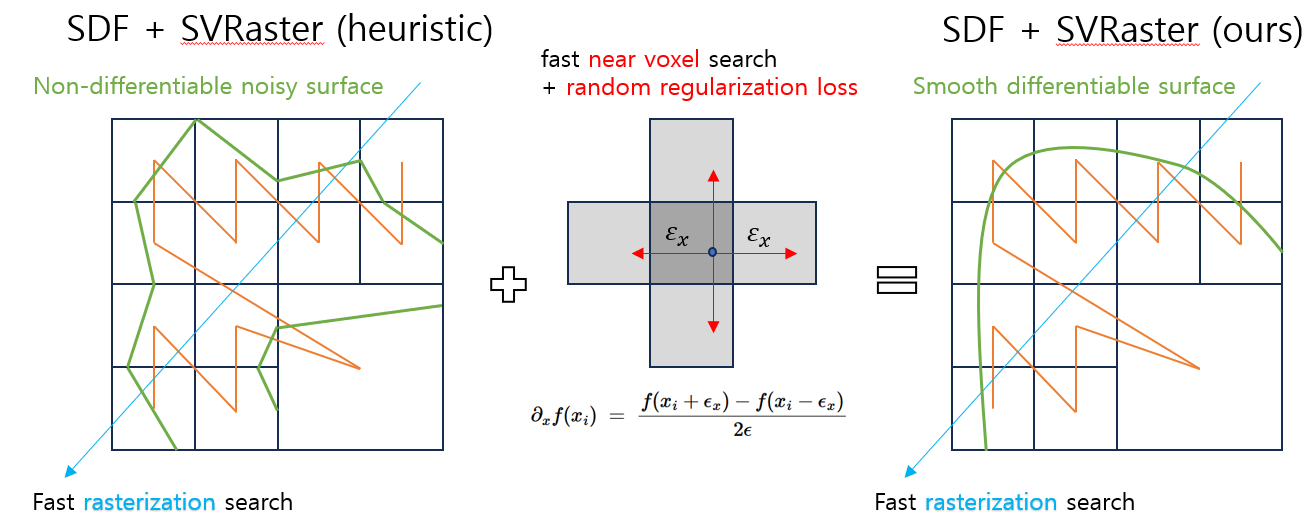
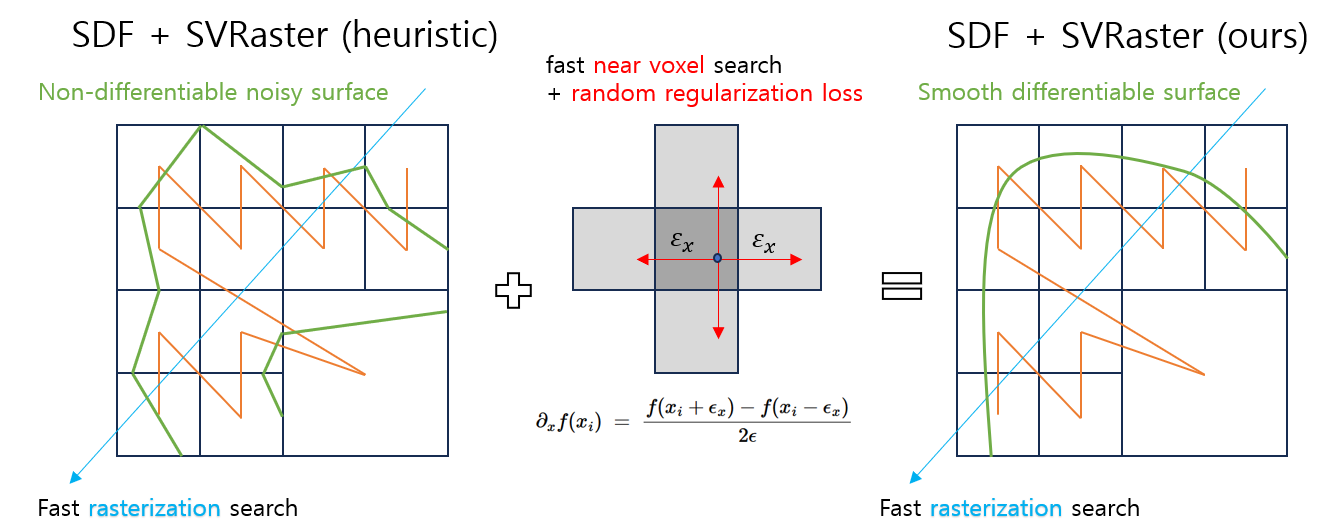
update svraster-sdf part

diff --git a/_projects/4_project.md b/_projects/4_project.md
@@ -2,16 +2,23 @@
 layout: page
 title: Sparse Voxels Rasterization with SDF-based Learning
 description: SVRaster Geometry Refinement via SDF Learning and NeuS-style Volume Rendering
-img: assets/img/svraster_comparison.png
+img: assets/img/svraster_comparison2.png
 importance: 1
 category: work
 published: true
 related_publications: false
 ---
 
+## Code & Resources
+
+You can run this code in the same way as the original SVRaster.
+To enable the SDF mode, simply add ---seunghun at the end of the train.py command.
+
+- Github Repository: [https://github.com/alvin0808/svraster](https://github.com/alvin0808/svraster)
+
 <div class="row justify-content-center">
   <div class="col-sm mt-3 mt-md-0 text-center">
-    {% include figure.liquid loading="eager" path="/assets/img/svraster_comparison.png" 
+    {% include figure.liquid loading="eager" path="/assets/img/svraster_comparison2.png" 
        title="SVRaster (left) vs. Ours (right)" 
        class="img-fluid rounded z-depth-1" %}
   </div>
@@ -34,8 +41,24 @@ Moreover, our method achieves **training time less than 10 minutes**, does not r
 
 ### Main Contributions
 
+<div class="row justify-content-center">
+  <div class="col-sm mt-3 mt-md-0 text-center">
+    {% include figure.liquid loading="eager" path="/assets/img/motivation_svraster.png" 
+       title="method overview" 
+       class="img-fluid rounded z-depth-1" %}
+  </div>
+</div>
+
 1. **Extension of SVRaster density mode**: Added `density_mode='sdf'` to apply NeuS-style $\alpha$ formulation.
 2. **Voxel refinement improvement**: Introduced SDF value criteria into subdivision and pruning to refine voxels near surfaces and prune irrelevant regions.
+<div class="row justify-content-center">
+  <div class="col-sm mt-3 mt-md-0 text-center">
+    {% include figure.liquid loading="eager" path="/assets/img/method_overview.png" 
+       title="method overview" 
+       class="img-fluid rounded z-depth-1" %}
+  </div>
+</div>
+
 3. **Grid-Voxel mapping tables**:
    - Motivation: In order for **regularization losses (e.g., Eikonal, smoothness)** to propagate **continuously across neighboring voxels**, we discretize the scene into grids and enable **fast neighbor queries**.
    - Implemented structures:
@@ -54,13 +77,6 @@ Moreover, our method achieves **training time less than 10 minutes**, does not r
 
 ---
 
-<div class="row justify-content-center">
-  <div class="col-sm mt-3 mt-md-0 text-center">
-    {% include figure.liquid loading="eager" path="/assets/img/method_overview.png" 
-       title="method overview" 
-       class="img-fluid rounded z-depth-1" %}
-  </div>
-</div>
 ### 2.1 SDF Learning within Sparse Voxels
 
 We extend the SVRaster framework to support Signed Distance Functions (SDFs) as the scene representation.
@@ -230,13 +246,32 @@ _Random sampling inside grid cells reduces noise and improves surface smoothness
 We evaluated Chamfer Distance on the DTU dataset (lower is better).  
 The table below highlights our reproduced result compared to the original SVRaster and other baselines.
 
-| Method                       | DTU (scan 24) Chamfer Distance |
-| ---------------------------- | ------------------------------ |
-| NeuS                         | 1.00                           |
-| 2DGS                         | 0.48                           |
-| 3DGS                         | 2.14                           |
-| SVRaster (original, density) | 0.61                           |
-| **Ours (reproduced)**        | **0.52**                       |
+<table style="border-collapse: collapse; border: 1px solid black;">
+  <tr>
+    <th style="border: 1px solid black; padding: 6px;">Method</th>
+    <th style="border: 1px solid black; padding: 6px;">DTU (scan 24) Chamfer Distance</th>
+  </tr>
+  <tr>
+    <td style="border: 1px solid black; padding: 6px;">NeuS</td>
+    <td style="border: 1px solid black; padding: 6px;">1.00</td>
+  </tr>
+  <tr>
+    <td style="border: 1px solid black; padding: 6px;">2DGS</td>
+    <td style="border: 1px solid black; padding: 6px;">0.48</td>
+  </tr>
+  <tr>
+    <td style="border: 1px solid black; padding: 6px;">3DGS</td>
+    <td style="border: 1px solid black; padding: 6px;">2.14</td>
+  </tr>
+  <tr>
+    <td style="border: 1px solid black; padding: 6px;">SVRaster (original, density)</td>
+    <td style="border: 1px solid black; padding: 6px;">0.61</td>
+  </tr>
+  <tr>
+    <td style="border: 1px solid black; padding: 6px;"><b>Ours (reproduced)</b></td>
+    <td style="border: 1px solid black; padding: 6px;"><b>0.52</b></td>
+  </tr>
+</table>
 
 - Our reimplementation achieves **0.52**, which improves upon the reported SVRaster (0.61) and is consistent with the relative ranking of methods.
 
@@ -254,7 +289,3 @@ Our method provides a **balanced set of advantages**:
 Together, these results show that our approach combines the strengths of rasterization, SDF-based learning, and efficiency, without being dominated by any existing category of methods.
 
 ---
-
-## 4. code & Resources
-
-- Github Repository: [https://github.com/alvin0808/svraster](https://github.com/alvin0808/svraster)
